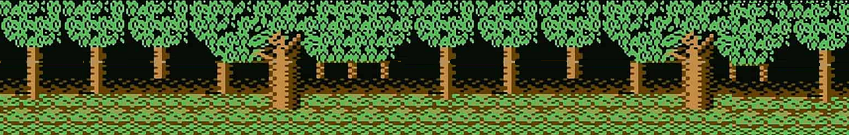
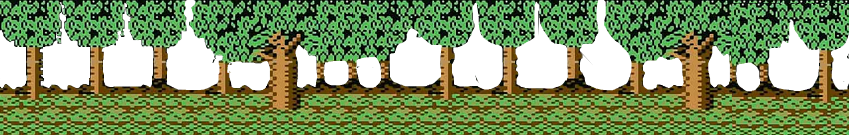
transparency-fixes

Changed region(s): [[0.0, 0.0, 1.0, 0.6815], [0.1225, 0.0296, 0.1531, 0.0593], [0.0612, 0.0296, 0.0919, 0.0593]]

diff --git a/fat-alpine/python/GUI/up-up-away/up-up-away.py b/fat-alpine/python/GUI/up-up-away/up-up-away.py
@@ -16,11 +16,10 @@ window_width, window_height = 320, 200
 
 
 def load_hot_air_baloon():
-    gif_image = Image.open("uua.gif")
-    gif_image = gif_image.convert("RGB")
-    gif_image_width, gif_image_height = gif_image.size
+    image = pygame.image.load("uua.png").convert_alpha()
+    image_width, image_height = image.get_size()
     
-    return gif_image_width, gif_image_height, pygame.image.fromstring(gif_image.tobytes(), gif_image.size, gif_image.mode)    
+    return image_width, image_height, image    
 
 def write_out_banner(window):
     font_path = os.path.join("..", "C64_Pro_Mono-STYLE.ttf")

diff --git a/fat-alpine/python/GUI/bitmap_scroll/scroll.py b/fat-alpine/python/GUI/bitmap_scroll/scroll.py
@@ -7,7 +7,7 @@ canvas_height = 200
 screen = pygame.display.set_mode((canvas_width, canvas_height))
 pygame.display.set_caption("Seemingly Infinite Scrolling with Animated Soldier")
 
-background_bitmap = pygame.image.load("background_image.png")
+background_bitmap = pygame.image.load("background_image.png").convert_alpha()
 
 double_bitmap_width = background_bitmap.get_width() * 2
 double_bitmap = pygame.Surface((double_bitmap_width, background_bitmap.get_height()))

diff --git a/fat-alpine/python/GUI/anim-pygame2-tts.py b/fat-alpine/python/GUI/anim-pygame2-tts.py
@@ -10,7 +10,7 @@ window_height = 600
 window = pygame.display.set_mode((window_width, window_height))
 pygame.display.set_caption("Pygame Animation")
 
-image = pygame.image.load("tts.jpg")
+image = pygame.image.load("tts.png").convert_alpha()
 image_width, image_height = image.get_size()
 
 # Define font properties
